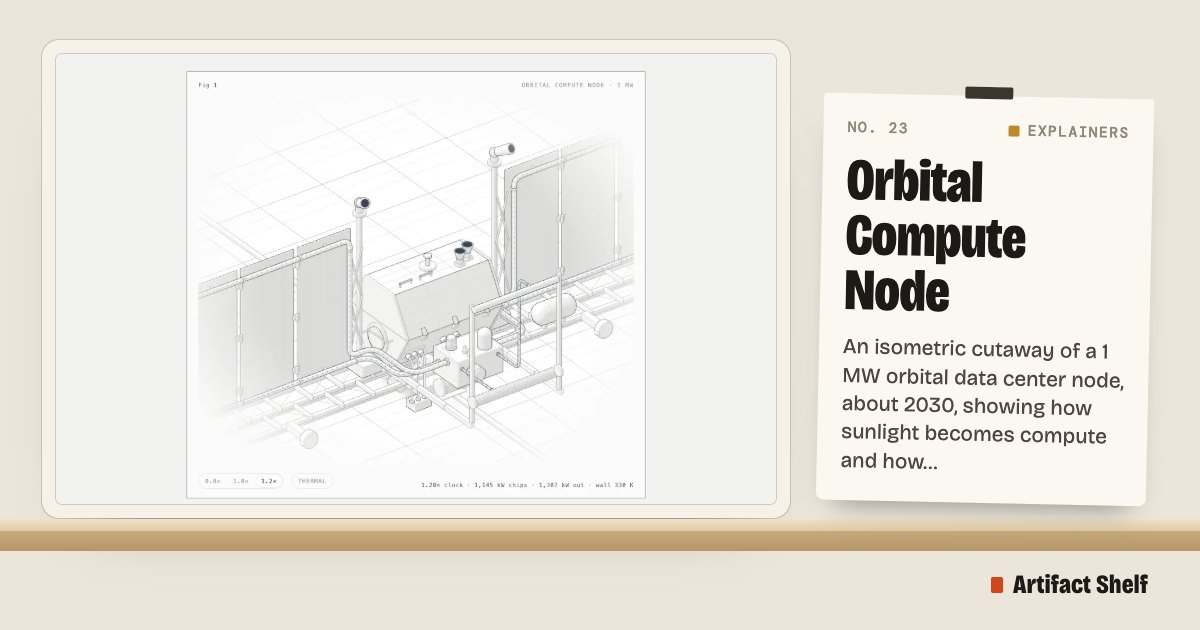
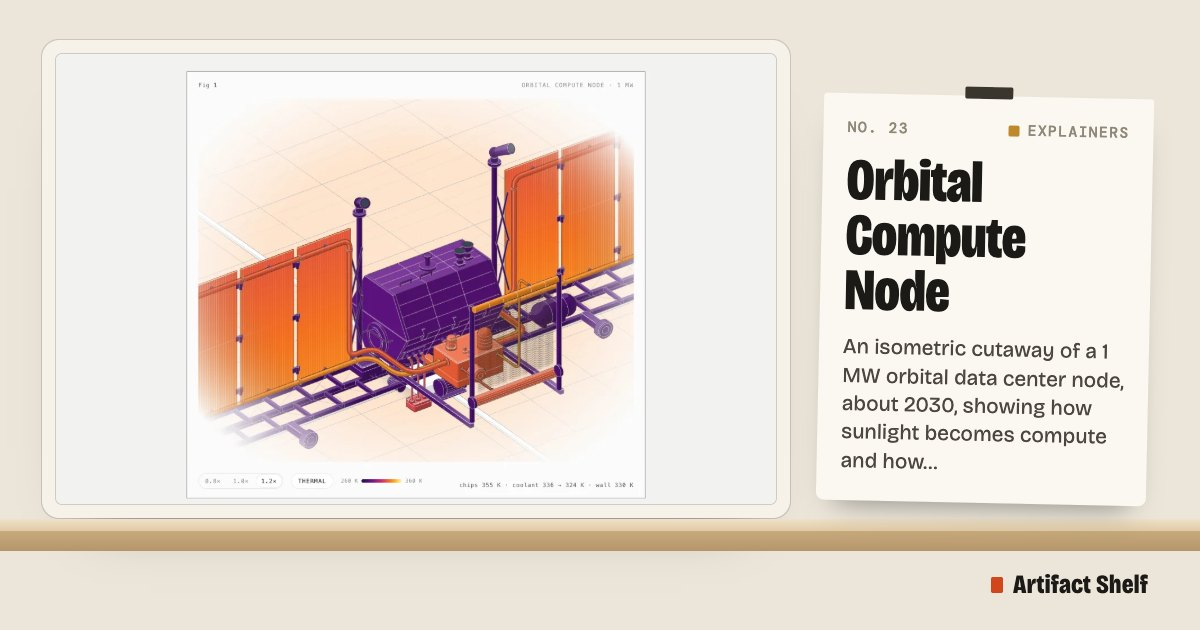
Capture: add capture_motion, give Orbital a thermal poster
The capture browser renders slowly, and pages that step their animation
per frame reach a faded-in state late, or a tour undoes it first.
capture_motion: reduce runs the poster browser with reduced motion, so
such pages jump straight to the state the poster should show.

Orbital Compute Node uses it to capture with the thermal view on.

Changed region(s): [[0.1542, 0.1508, 0.555, 0.7238], [0.3083, 0.754, 0.37, 0.7841]]

diff --git a/docs/WRITEUPS.md b/docs/WRITEUPS.md
@@ -48,6 +48,7 @@ capture_click: "#start"
 | `capture_click` | no | CSS selector to click before the poster screenshot (a Start button, a splash screen). |
 | `capture_time` | no | Pin the clock for the poster, e.g. `2026-06-21T16:30:00Z`. For anything that shows the time, the sun or the sky. |
 | `capture_timezone` | no | Time zone for the poster browser, e.g. `America/New_York`. |
+| `capture_motion` | no | `reduce` runs the poster browser with reduced motion. For pages that animate into the state the poster should show: the capture browser renders slowly, so a fade or a tour can be caught halfway. |
 | `repo` | no | The bigger project this belongs to: `owner/name` or a URL. Shows a "Part of … on GitHub" link on the page. If it matches an entry in `projects` in `shelf.config.json`, that project's name is used. |
 | `links` | no | Extra links shown beside it, as `["Label \| https://…"]`. |
 

diff --git a/skills/artifact-shelf/SKILL.md b/skills/artifact-shelf/SKILL.md
@@ -57,6 +57,7 @@ Then fill in `about.md` exactly as `docs/WRITEUPS.md` describes:
 - `summary`: one sentence, 110–155 characters. Count them.
 - `tags`: 3–6, lowercase-hyphenated, mixing technique and subject.
 - `capture_click` / `capture_wait` if the poster needs a click or time to look good.
+  `capture_motion: reduce` if the page animates into that state and the poster catches it halfway.
 - `autorun: false` if it is heavy, makes sound on load, or opens on a menu.
 - Body: opening paragraph, `## How to use it` (real keys and labels), `## How it works`
   (named techniques, only what the code does), optional `## Notes`.

diff --git a/artifacts/orbital-data-center/about.md b/artifacts/orbital-data-center/about.md
@@ -8,6 +8,8 @@ status: published
 featured: false
 autorun: true
 capture_wait: 1500
+capture_click: "[data-thermal-toggle]"
+capture_motion: reduce
 ---
 
 A drawing of one node of an orbital data center as it might fly around 2030: about 1.15 MW of GPUs in a 15 t spacecraft, 1,400 km up in a dawn-dusk orbit. The thin-film array is the floor of the drawing and faces the Sun, which is below it, so everything above the array sits in its shade. The figure follows one idea: power is easy to collect in orbit, and the hard part is getting rid of the heat.
